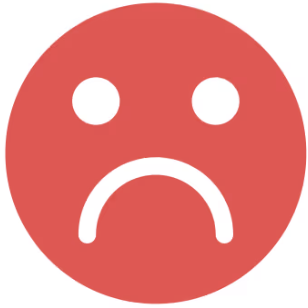
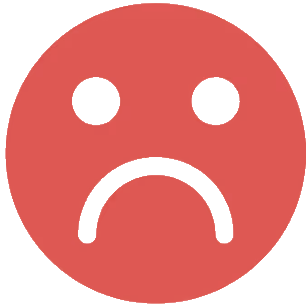
Made emojis transparent and added dark mode

diff --git a/index.html b/index.html
@@ -32,7 +32,14 @@
 
 </head>
 <body>
-    <h1>Team 10: How We Feelin?!</h1>
+    <div class="top">
+        <h1>Team 10: How We Feelin?!</h1>
+
+        <div class="darkControls">
+            <input type="checkbox" id="darkCB" class="checkbox">
+            <label id="darkStatus">Dark Mode Disabled</label>
+        </div>
+    </div>
 
     <!-- icons -->
     <div class="icons">
@@ -104,6 +111,18 @@
             document.getElementById('comment').value = '';
         });
         */
+
+        document.getElementById('darkCB').addEventListener('change', function() {
+            if (this.checked) {
+                document.body.classList.add('dark-mode');
+                document.getElementById("darkStatus").textContent="Dark Mode Enabled";
+            } 
+
+            else {
+                document.body.classList.remove('dark-mode');
+                document.getElementById("darkStatus").textContent="Dark Mode Disabled";
+            }
+        });
     </script>
 </body>
 <!-- footer bar with contact and behind the scenes -->

diff --git a/styles.css b/styles.css
@@ -49,3 +49,32 @@
   transition: 0.1s;
   cursor: pointer;
 }
+
+body {
+  background-color: white;
+  color: black;
+}
+
+.dark-mode {
+  background-color: #282A36;
+  color: white;
+}
+
+.top {
+  display: grid;
+  /justify-content: space-between;/
+  grid-template-columns: 32em;
+}
+
+h1 {
+  grid-row-start: 1;
+  grid-column-start: 1;
+  grid-column-end: 1;
+}
+
+.darkControls {
+  grid-row-start: 1;
+  grid-column-start: 2;
+  grid-column-end: 2;
+  padding-top: 2em;
+}
